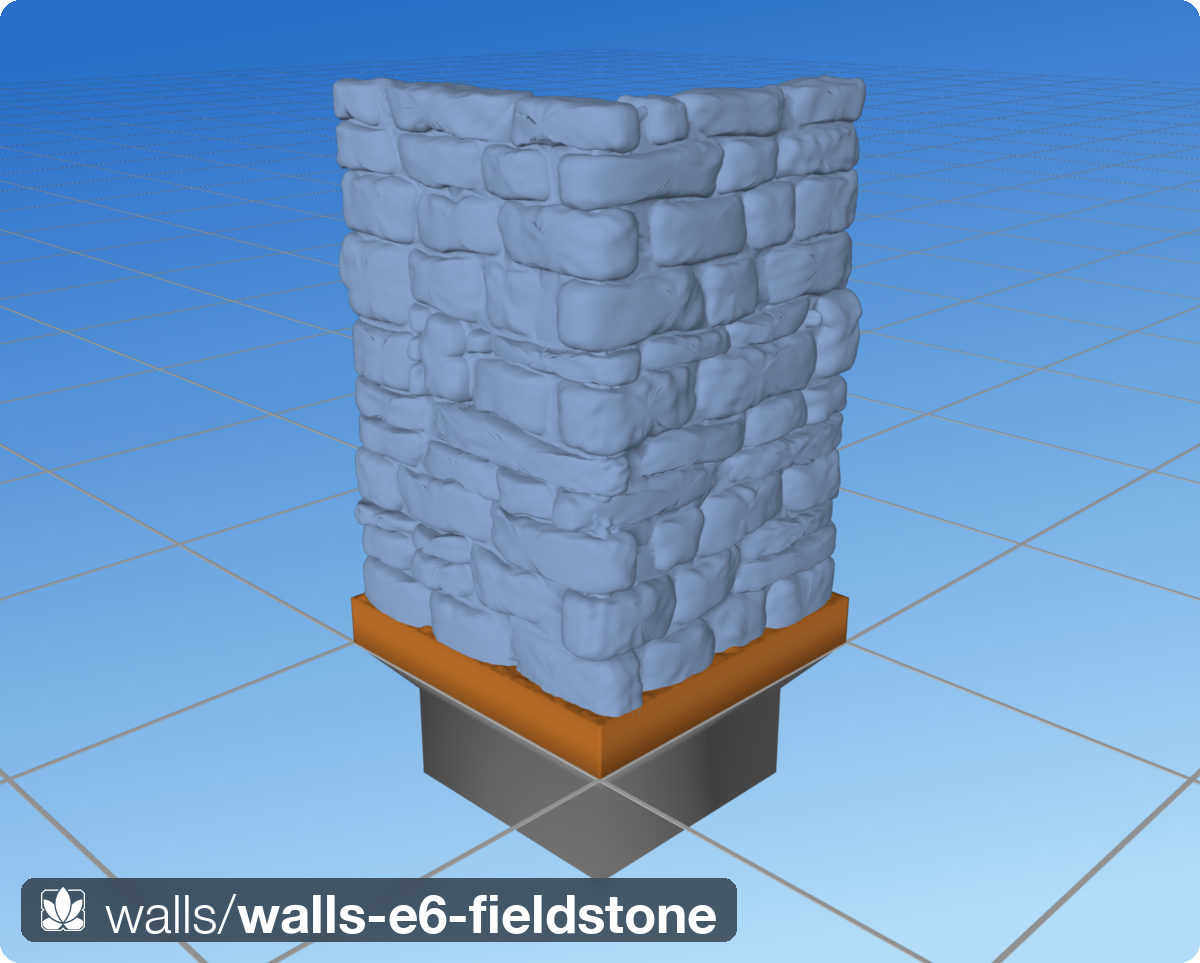
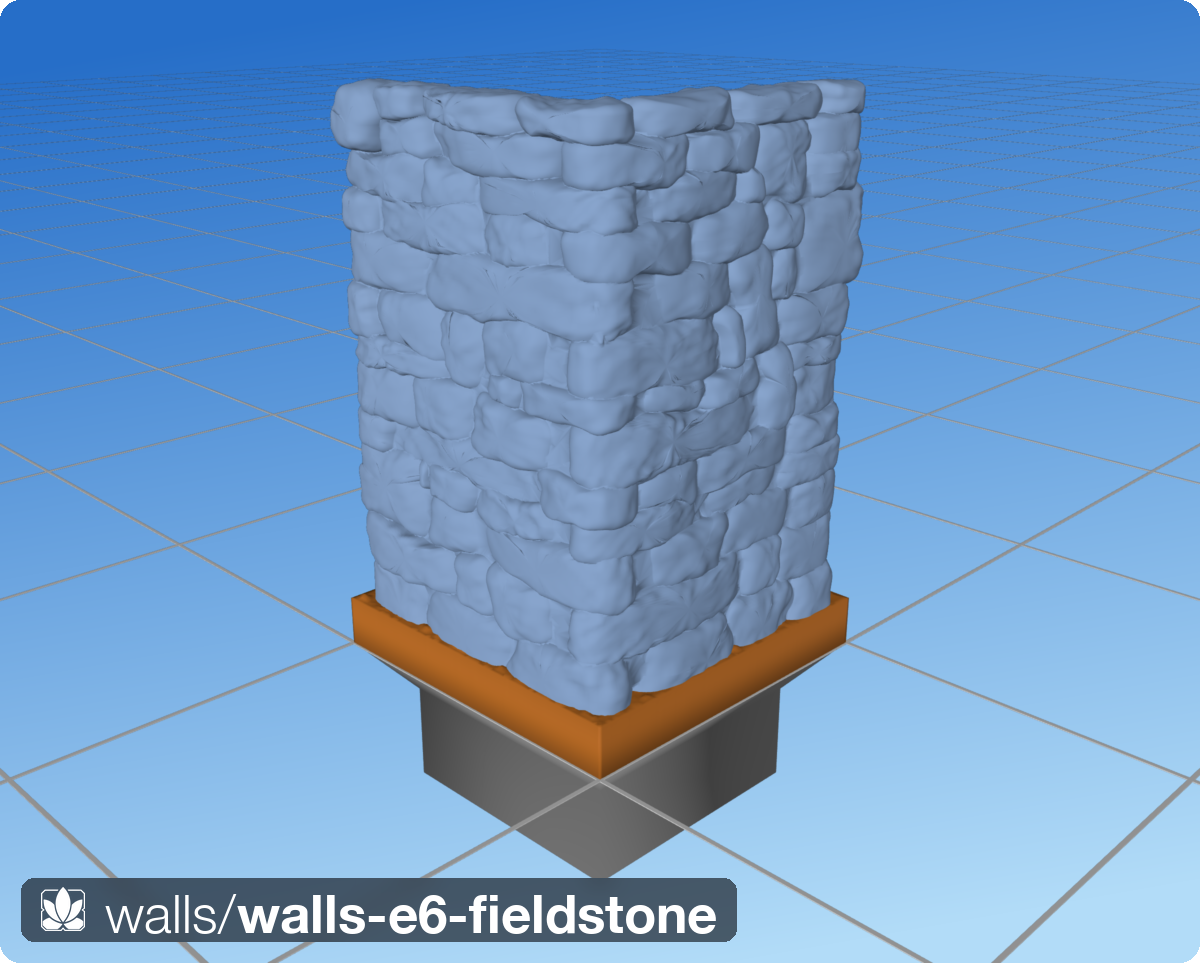
Walls: fieldstone E25 — perched top rocks, bed overlap, +20% courses, end margins, prouder faces
Shawn's six asks, all in walls/fieldstone.py on the E24 base:

1. No mortar between head stones on the top course: the core now stops
   just BELOW the top-course bed (_core_boxes override via _cap_z0;
   rubble hearting clipped under it too), so gaps between the cap
   stones look onto the stones beneath, never the core. The perched
   rocks stay attached through the bed overlap pressed up from the
   course below.
2. Beds get the E24 overlap treatment: each stone dilates vertically
   U(0.35,0.80)mm past its bed lines (cap 0.22x height; is_top exempt,
   bottom course keeps its seat), fusing courses into pressed contacts.
3. Courses 2.2-5.2mm (+20% horizontal cracks).
4. End-rock shearing diagnosed and fixed: texture displacement pushed
   end-stone surfaces past the tile boundary and _clip_to_tile planed
   them flat. 'face' ends now recede 0.7mm (_END_MARGIN_MM), leaving
   full rounded stones at tile edges.
5. Proud-face variance up: U(0.10,0.70)mm with a 15% deep tail to
   1.10mm (_PROUD_MM / _PROUD_DEEP_*).
6. Rounder tops/bottoms: _BED_FLAT_EXP 0.40-0.65 (safe now that beds
   overlap).

masonry.py: _separate_pinches nudge made asymmetric (0.15/0.30um) and
iterated — parallel-normal coincident pairs moved in lockstep under the
symmetric nudge and stayed merged after float32 STL rounding.

Verified: red-mortar diag 0.0000 on all five views; exported STL
watertight, 0 open, 0 non-manifold (V=199,862 F=399,740). Docs: E24
[…]

Changed region(s): [[0.2775, 0.0623, 0.74, 0.7477], [0.4008, 0.6854, 0.4625, 0.7165], [0.37, 0.6542, 0.4008, 0.6854]]

diff --git a/src/dharmatiles/walls/fieldstone.py b/src/dharmatiles/walls/fieldstone.py
@@ -64,6 +64,22 @@ _BOW_MM           = 1.1           # head joints BOW up to ±this at their
                                   # joint is a shared parabola, zero at
                                   # the bed lines, both neighbours
                                   # evaluating the same curve
+_BED_OVERLAP_MM   = (0.35, 0.80)  # E25: stones extend past their BED
+                                  # lines too (capped at 0.22× height) —
+                                  # vertical pressed contacts, same
+                                  # mechanism as the head joints.  This
+                                  # is also what welds the perched top-
+                                  # course rocks to the stones below
+                                  # now that the core stops beneath
+                                  # them.  is_top exempt; bottom course
+                                  # keeps its flat buried seat
+_END_MARGIN_MM    = 0.7           # 'face' ends (free ends, corner
+                                  # arris) recede this far inside the
+                                  # tile plane: the surface texture
+                                  # displaces up to ~0.6 mm outward and
+                                  # anything past the boundary is
+                                  # plane-cut — the "sheared-off end
+                                  # rocks" of E24
 _HEAD_OVERLAP_MM  = (0.45, 0.95)  # E24: stones extend past their head-
                                   # joint lines on BOTH sides, drawn per
                                   # side per stone — neighbours
@@ -115,16 +131,18 @@ _POLE_DRIFT_FRAC  = 0.12          # each pole wanders up to this × the
                                   # outline size from the centroid: the
                                   # summit of the dome is off-centre,
                                   # like a real cobble
-_BED_FLAT_EXP     = (0.30, 0.52)  # z-scale = s^p (E19): the bed
+_BED_FLAT_EXP     = (0.40, 0.65)  # z-scale = s^p (E19): the bed
                                   # surfaces stay near-FLAT over most of
                                   # the depth and only turn down close
                                   # to the face poles — we're piling
                                   # flat stones, not spheres.  Smaller
-                                  # exponent = flatter beds (E23: raised
-                                  # from 0.22–0.42 — "a bit" rounder
-                                  # tops/bottoms)
-_PROUD_MM         = (0.10, 0.50)  # per-stone face recession (both faces)
-_PROUD_DEEP_PROB  = 0.12          # a rare stone sits notably deeper —
+                                  # exponent = flatter beds (E23 0.30 →
+                                  # 0.52, E25 0.40 → 0.65: successively
+                                  # rounder tops/bottoms; the bed
+                                  # overlap keeps the contacts pressed)
+_PROUD_MM         = (0.10, 0.70)  # per-stone face recession (both faces;
+                                  # E25: more protrusion variance)
+_PROUD_DEEP_PROB  = 0.15          # a rare stone sits notably deeper —
 _PROUD_DEEP_MM    = (0.70, 1.10)  # the odd deep stone the references show
 _RING_STEP_MM     = 1.2           # outline densify spacing
 _N_LAT            = 17            # latitude rings (poles excluded)
@@ -187,7 +205,7 @@ class FieldstoneWall(CutStoneWall):
     """
 
     def __init__(self, spine, *,
-                 course_mm: tuple[float, float] = (2.6, 6.2),
+                 course_mm: tuple[float, float] = (2.2, 5.2),
                  bay_mm:    tuple[float, float] = (5.0, 16.0),
                  joint_mm:  float = 0.0,   # physical crack gap (Shawn E18:
                                            # zero — stones TOUCH at their
@@ -260,7 +278,12 @@ class FieldstoneWall(CutStoneWall):
         self._drifts.clear()
         cells = self._merge_throughstones(super()._cells(segs, T, H, rng),
                                           rng)
-        return self._split_cells(cells, rng)
+        cells = self._split_cells(cells, rng)
+        # Wall-local z where the top course begins: the core and the
+        # rubble hearting stop beneath it (E25 — the top course reads
+        # as separate rocks perched on the wall, no mortar between).
+        self._cap_z0 = min((c.z0 for c in cells if c.is_top), default=H)
+        return cells
 
     def _merge_throughstones(self, cells: list[_Cell],
                              rng: np.random.Generator) -> list[_Cell]:
@@ -362,15 +385,21 @@ class FieldstoneWall(CutStoneWall):
                 return z                       # flat cap plane (R6)
             return z + float(self._bed(seg_i, z, seg.L)(t))
 
-        def side(t_cut: float, end: str, off: float):
+        def side(t_cut: float, end: str, off: float, inward: float):
             """[(t, z), …] bottom→top along this side crack.  Interior
             band boundaries contribute two points (the drift changes
             where the neighbour changes) — a small shared jog.  ``off``
             pushes the whole line past the shared curve (head-joint
-            overlap); the curve itself stays keyed at t_cut."""
+            overlap); the curve itself stays keyed at t_cut.
+            ``inward`` (+1 left side, −1 right side) orients the
+            'face'-end margin."""
             if end == 'face':                  # wall end / corner arris
-                return [(t_cut, zeff(cell.z0, t_cut)),
-                        (t_cut, zeff(cell.z1, t_cut))]
+                # Recede inside the tile plane: texture displacement
+                # (~0.6 mm) past the boundary gets plane-cut — the
+                # E24 "sheared-off end rocks".
+                tq = t_cut + inward * _END_MARGIN_MM
+                return [(tq, zeff(cell.z0, tq)),
+                        (tq, zeff(cell.z1, tq))]
             pts = []
             for crs, zb0, zb1 in bands:
                 d, bow = self._drift(seg_i, crs, t_cut)
@@ -383,8 +412,8 @@ class FieldstoneWall(CutStoneWall):
                     pts.append((t, zpt))
             return pts
 
-        left  = side(cell.t0, cell.end0, -ov0)
-        right = side(cell.t1, cell.end1, +ov1)
+        left  = side(cell.t0, cell.end0, -ov0, +1.0)
+        right = side(cell.t1, cell.end1, +ov1, -1.0)
 
         def bed(z: float, ta: float, tb: float):
             n = max(2, int(abs(tb - ta) / 4.0) + 2)
@@ -397,8 +426,36 @@ class FieldstoneWall(CutStoneWall):
         # CCW: bottom left→right, right side up, top right→left, left
         # down.  Slices drop the duplicated corner points (bed edges
         # include both endpoints, which coincide with the side ends).
-        pts = (bot + right[1:] + top[1:] + left[::-1][1:-1])
-        return np.asarray(pts, dtype=float)
+        pts = np.asarray(bot + right[1:] + top[1:] + left[::-1][1:-1],
+                         dtype=float)
+
+        # Bed overlap (E25): stretch the outline past its bed lines —
+        # bottom down by ovb, top up by ovt, interiors interpolated —
+        # so vertically adjacent stones press together like the E24
+        # head joints.  Top course exempt (perched rocks); the bottom
+        # course keeps its flat buried seat.
+        if not cell.is_top:
+            h = cell.z1 - cell.z0
+            cap = 0.22 * h
+            ovt = min(float(brng.uniform(*_BED_OVERLAP_MM)), cap)
+            ovb = 0.0 if cell.is_bottom else min(
+                float(brng.uniform(*_BED_OVERLAP_MM)), cap)
+            zlo, zhi = pts[:, 1].min(), pts[:, 1].max()
+            u = (pts[:, 1] - zlo) / max(zhi - zlo, 1e-9)
+            pts[:, 1] += ovt * u - ovb * (1.0 - u)
+        return pts
+
+    def _core_boxes(self, segs: list[_Seg], seat_z: float) -> list:
+        """The core stops just below the top-course bed (E25): the
+        perched top rocks are attached by the bed overlap pressed up
+        from the course below, so gaps in the top course look onto
+        the stones below, never the core."""
+        real_h = self.height_mm
+        self.height_mm = min(self._cap_z0 - 0.4 + self.reveal_mm, real_h)
+        try:
+            return super()._core_boxes(segs, seat_z)
+        finally:
+            self.height_mm = real_h
 
     def _place_block(self, cell: _Cell, segs: list[_Seg], seat_z: float,
                      rng: np.random.Generator) -> trimesh.Trimesh | None:
@@ -616,7 +673,11 @@ class FieldstoneWall(CutStoneWall):
                         w = rng.uniform(*_RUBBLE_FOOT)
                         h = rng.uniform(*_RUBBLE_H)
                         t0 = np.clip(tc - w / 2.0, sb, seg.L - sb - w)
-                        z0 = np.clip(zc - h / 2.0, 0.2, H - 0.6 - h)
+                        # Rubble stops beneath the top course (E25):
+                        # gaps between the perched top rocks must show
+                        # stone below, not hearting "mortar".
+                        z0 = np.clip(zc - h / 2.0, 0.2,
+                                     self._cap_z0 - 0.3 - h)
                         body = _rubble_mesh(w, yb1 - yb0, h, rng)
                         b0, b1 = body.bounds
                         tgt0 = np.array([t0, yb0, z0])

diff --git a/src/dharmatiles/walls/masonry.py b/src/dharmatiles/walls/masonry.py
@@ -491,25 +491,27 @@ class CutStoneWall:
         leave near-zero clearances somewhere every build; the mesh stays
         index-manifold, but STL export merges vertices by POSITION on
         reload, collapsing such a pinch into a non-manifold edge
-        (fieldstone E23).  Moving each vertex 0.15 µm inward along its
-        own normal keeps every contact separated past the float32
-        grid (~0.004 µm at these coordinates)."""
+        (fieldstone E23).  The nudge is ASYMMETRIC (0.15 µm vs 0.30 µm
+        inward along each vertex's own normal) so a pair separates by
+        ≥0.15 µm even when the two normals are parallel — well past the
+        float32 grid (~0.004 µm at these coordinates).  Iterates in case
+        a nudge lands a vertex onto a third one (fieldstone E25)."""
         from scipy.spatial import cKDTree
-        v = wall.vertices.view(np.ndarray)
-        pairs = cKDTree(v).query_pairs(2e-4, output_type='ndarray')
-        if len(pairs) == 0:
-            return
         adjacent = {tuple(e) for e in np.sort(wall.edges_unique, axis=1)}
         vn = np.asarray(wall.vertex_normals)
-        moved = False
-        for i, j in pairs:
-            if (min(i, j), max(i, j)) in adjacent:
-                continue
-            v[i] -= vn[i] * 1.5e-4
-            v[j] -= vn[j] * 1.5e-4
-            moved = True
-        if moved:
-            wall.vertices = v
+        v = wall.vertices.view(np.ndarray)
+        for _ in range(4):
+            pairs = cKDTree(v).query_pairs(2e-4, output_type='ndarray')
+            moved = False
+            for i, j in pairs:
+                if (min(i, j), max(i, j)) in adjacent:
+                    continue
+                v[i] -= vn[i] * 1.5e-4
+                v[j] -= vn[j] * 3.0e-4
+                moved = True
+            if not moved:
+                break
+        wall.vertices = v
 
     @staticmethod
     def _clip_to_tile(wall: trimesh.Trimesh, surface) -> trimesh.Trimesh:

diff --git a/docs/design/walls-coursed-masonry.md b/docs/design/walls-coursed-masonry.md
@@ -2,8 +2,10 @@
 
 **Status (2026-07-05): cut-stone family shipped-quality per Shawn's
 round-2/round-5 verdicts; fieldstone family rebuilt as crack-network
-tessellation (E12, `walls/fieldstone.py`) — awaiting Shawn's judgment
-on `docs/walls/renders/walls-fieldstone-{front,corner}.png`.
+tessellation (E12, approved) and iterated E13–E25 under Shawn's
+direction — current state E25 (perched top rocks, bed+head overlap,
+pebble morph, rocks texture) awaiting judgment on
+`docs/walls/renders/walls-fieldstone-{front,corner,top}.png`.
 Fieldstone reference set + geometric truths:
 `docs/reference/walls/fieldstone/README.md`.**
 Interview record: `docs/meta/history/2026-07-04-walls-greenfield-requirements.md`.
@@ -198,7 +200,8 @@ unioned surface — the DB set-13 signature).
 | E21 | **Rougher, irregular, wandery** (Shawn): texture amplitudes up (undulation clip(0.045·foot, 0.14, 0.45), grain clip(0.016·foot, 0.12, 0.30)×0.6); head joints BOW ±1.1 mm at midpoint (shared parabola, zero at the beds — both neighbours evaluate the same curve); bed wobble amp 0.16–0.38 at shorter wavelengths 11–32 (course min raised 2.3 → 2.6 to keep the thinnest waists chink-class); per-stone INWARD-only outline noise (2 sinusoids over the perimeter) makes silhouettes irregular and cracks open/close along their run without touching the no-overlap guarantee | folded into E22 |
 | E22 | **Rounder, less gap + watertight fix** (Shawn): roundover 1.3–2.6 (size cap 0.26), morph shoulders slightly fuller (b 0.33–0.48); outline noise reduced to 0.04–0.16 mm **with a floor** — E21's zero-noise minima left surfaces exactly tangent, and one tangency survived the union as a single non-manifold edge after float32 STL rounding; the hairline floor keeps every contact transversal.  Exported STL watertight again (0 open, 0 non-manifold).  Red 0.0000–0.0001 | Shawn: ✓ + next tweak |
 | E23 | **Slightly rounder beds + the real pinch fix**: `_BED_FLAT_EXP` 0.22–0.42 → 0.30–0.52 ("a bit" rounder tops/bottoms).  The non-manifold edge returned — root cause understood: zero-gap stones + texture displacement leave a near-zero clearance somewhere every build; the mesh stays INDEX-manifold so re-canonicalising through manifold is a no-op, but STL reload merges vertices by POSITION and collapses the pinch.  `_separate_pinches` (masonry chassis): after the union, kD-tree finds coincident vertex pairs that aren't topologically adjacent and nudges each 0.15 µm inward along its own normal — every contact stays separated past the float32 grid.  Exported STL watertight, 0 non-manifold | Shawn: ✓ + next tweak |
-| E24 | **Head-joint overlap** (Shawn: reduce horizontal gaps quite a bit more — let stones overlap so visible mortar reduces; top row untouched): each stone extends past its head-joint lines by U(0.45, 0.95) mm per side (capped at 0.25× stone width), the union fusing side-by-side neighbours into a pressed crease.  Deliberately relaxes the E10 no-overlap rule for head joints only — beds stay shared curves, and with the pebble morph the fused contact reads as stones pressed together, not the E9 melted mass.  `is_top` cells exempt.  Watertight, red 0.0000–0.0001 | pending Shawn |
+| E24 | **Head-joint overlap** (Shawn: reduce horizontal gaps quite a bit more — let stones overlap so visible mortar reduces; top row untouched): each stone extends past its head-joint lines by U(0.45, 0.95) mm per side (capped at 0.25× stone width), the union fusing side-by-side neighbours into a pressed crease.  Deliberately relaxes the E10 no-overlap rule for head joints only — beds stay shared curves, and with the pebble morph the fused contact reads as stones pressed together, not the E9 melted mass.  `is_top` cells exempt.  Watertight, red 0.0000–0.0001 | Shawn: ✓ + next tweak |
+| E25 | **Perched top rocks + bed overlap** (Shawn: remove mortar between head stones — rocks just sitting on top; +20 % horizontal cracks; why are end rocks sheared?; more face-protrusion variance; rounder top/bottom with overlap like the head joints): (1) top course = perched rocks — the core stops just BELOW the top-course bed (`_core_boxes` override via `_cap_z0`; rubble clipped under it too), so gaps between cap stones look onto the stones beneath, never mortar; the cap stones are attached by the bed overlap pressed up from the course below.  (2) Beds get the E24 overlap treatment: stones dilate vertically U(0.35, 0.80) mm past their bed lines (cap 0.22× height; `is_top` exempt, bottom course keeps its seat), fusing courses into pressed contacts.  (3) Courses 2.2–5.2 (−20 %).  (4) End-rock shearing diagnosed: texture displacement pushed end-stone surfaces past the tile boundary and `_clip_to_tile` planed them flat — 'face' ends now recede 0.7 mm (`_END_MARGIN_MM`), leaving full rounded stones at tile edges.  (5) Proud faces U(0.10, 0.70) with a 15 % deep tail to 1.10 (`_PROUD_*`).  (6) `_BED_FLAT_EXP` 0.40–0.65 (rounder beds — safe now that beds overlap).  Pinch nudge made asymmetric (0.15/0.30 µm) + iterated — parallel-normal pairs moved in lockstep and stayed coincident.  Watertight (0 open, 0 non-manifold), red 0.0000 all five views | pending Shawn |
 
 Implementation notes: cut-stone blocks finish through `_blur_remesh`
 (σ 0.7) — `subdivide_to_size` leaves T-junctions that break the
